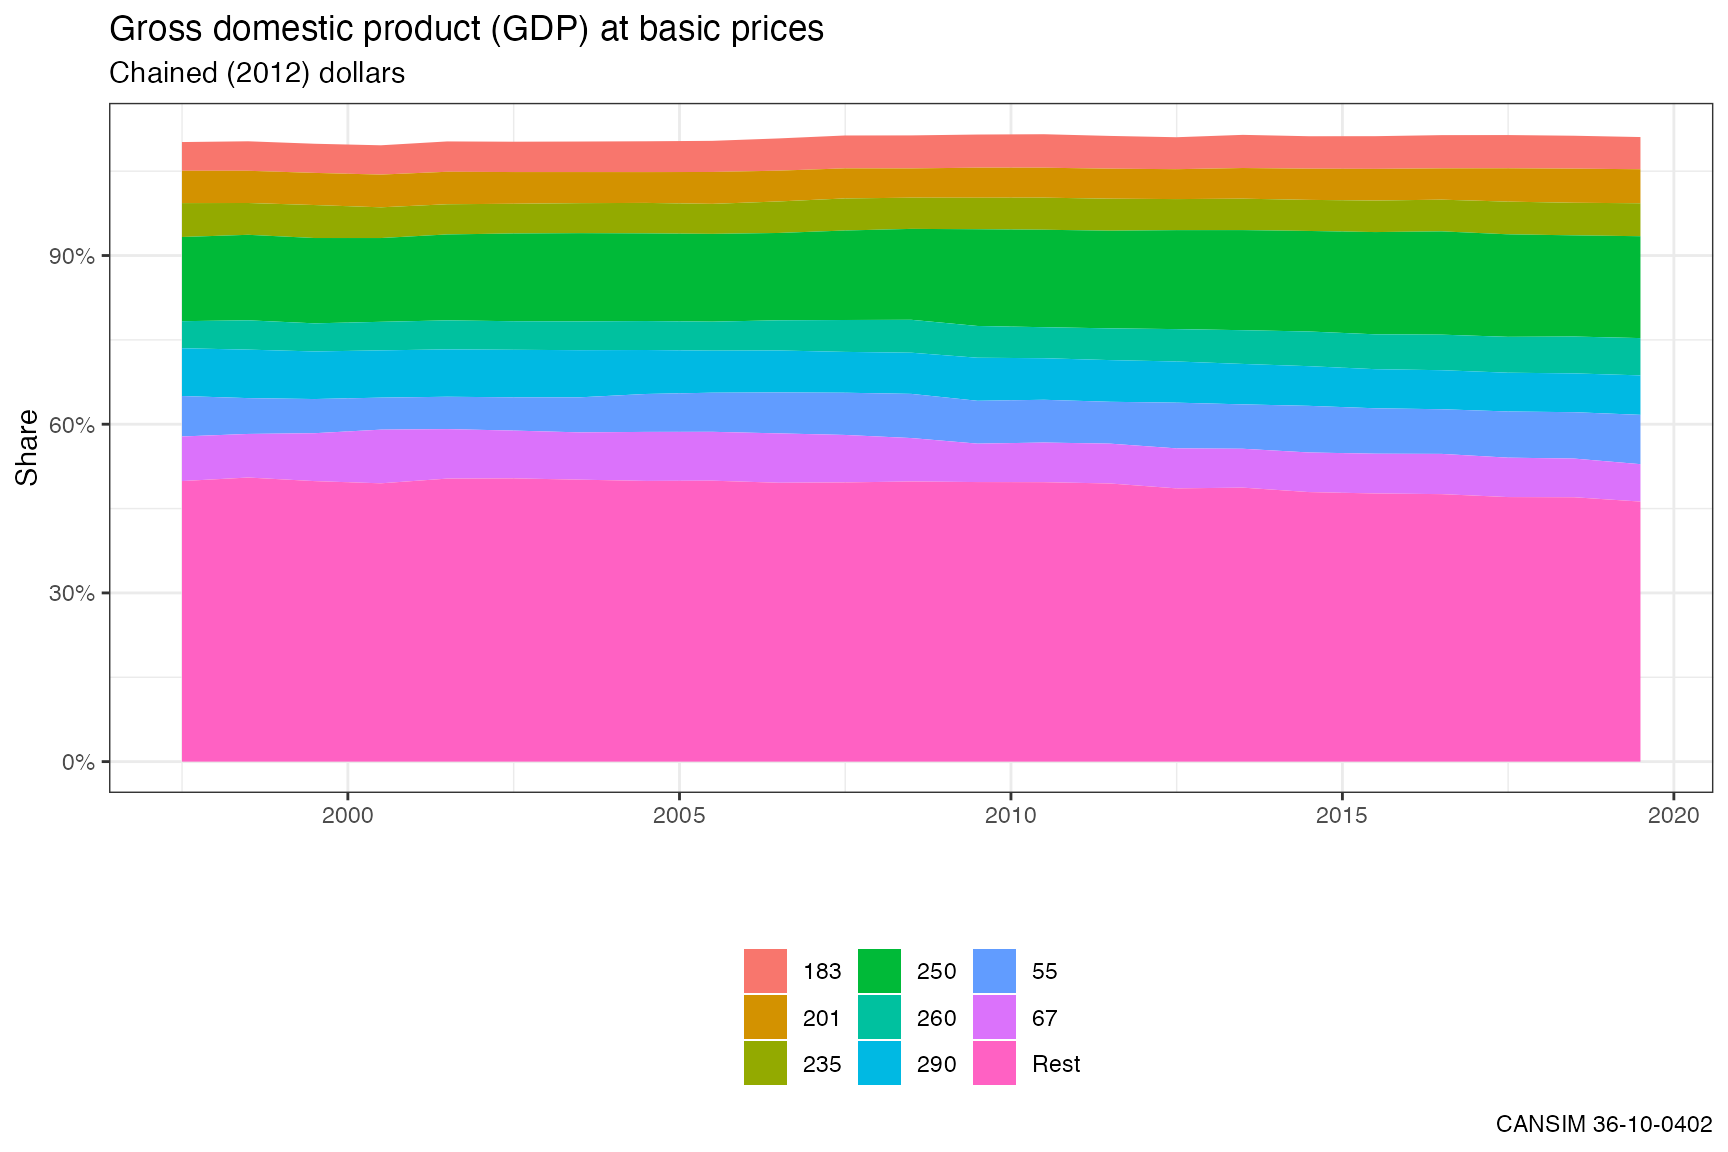
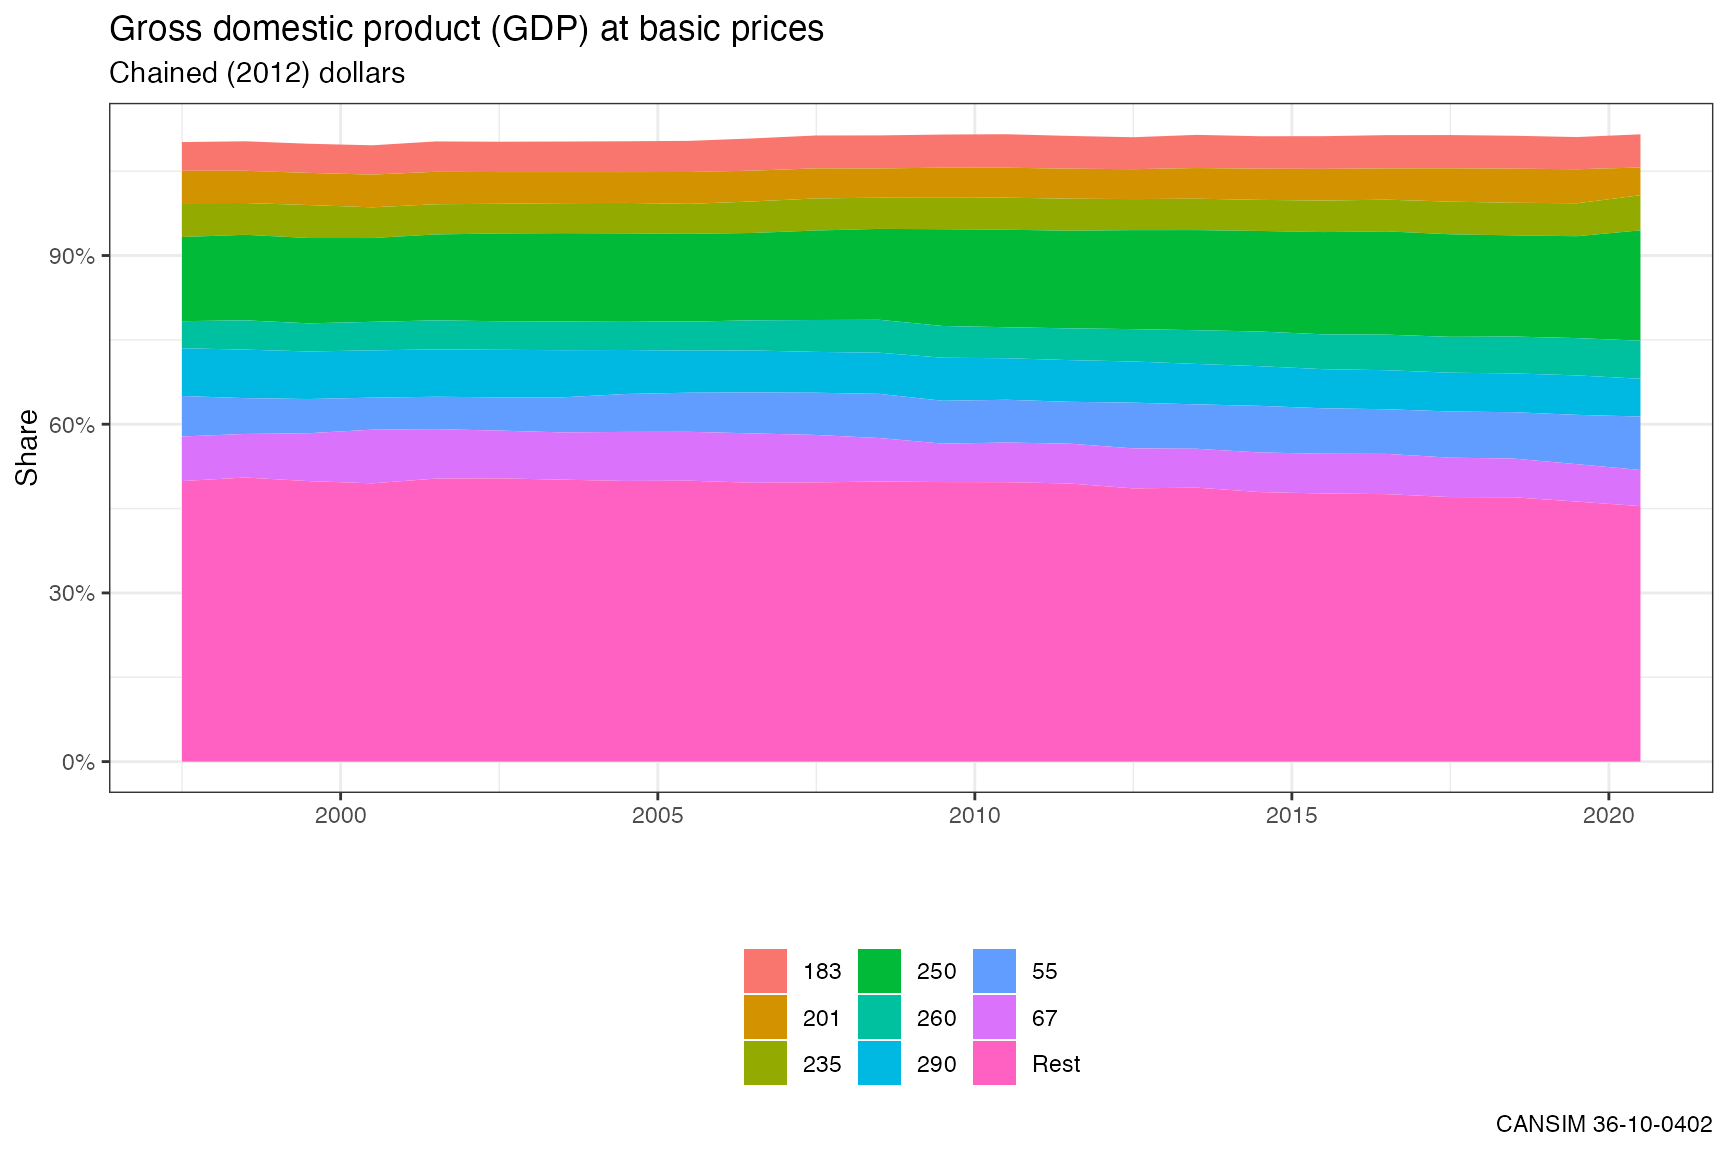
fall back to system unzip on unix-like systems.

diff --git a/docs/reference/list_cansim_cubes.html b/docs/reference/list_cansim_cubes.html
@@ -203,7 +203,7 @@ start and end dates, achieve status, subject and survey codes, frequency codes a
     <h2 class="hasAnchor" id="examples"><a class="anchor" href="#examples"></a>Examples</h2>
     <pre class="examples"><div class='input'><span class='co'># \donttest{</span>
 <span class='fu'>list_cansim_cubes</span><span class='op'>(</span><span class='op'>)</span>
-</div><div class='output co'>#&gt; <span class='message'>Retrieving cube information from StatCan servers...</span></div><div class='output co'>#&gt; <span style='color: #949494;'># A tibble: 5,765 x 19</span><span>
+</div><div class='output co'>#&gt; <span class='message'>Retrieving cube information from StatCan servers...</span></div><div class='output co'>#&gt; <span style='color: #949494;'># A tibble: 5,772 x 19</span><span>
 #&gt;    cansim_table_num… cubeTitleEn   cubeTitleFr  productId cansimId cubeStartDate
 #&gt;    </span><span style='color: #949494;font-style: italic;'>&lt;chr&gt;</span><span>             </span><span style='color: #949494;font-style: italic;'>&lt;chr&gt;</span><span>         </span><span style='color: #949494;font-style: italic;'>&lt;chr&gt;</span><span>        </span><span style='color: #949494;font-style: italic;'>&lt;chr&gt;</span><span>     </span><span style='color: #949494;font-style: italic;'>&lt;chr&gt;</span><span>    </span><span style='color: #949494;font-style: italic;'>&lt;date&gt;</span><span>       
 #&gt; </span><span style='color: #BCBCBC;'> 1</span><span> 10-10-0001        Federal publ… Emploi du s… 10100001  183-0021 1999-01-01   
@@ -216,7 +216,7 @@ start and end dates, achieve status, subject and survey codes, frequency codes a
 #&gt; </span><span style='color: #BCBCBC;'> 8</span><span> 10-10-0008        Foreign exch… Taux de cha… 10100008  176-0067 1950-10-02   
 #&gt; </span><span style='color: #BCBCBC;'> 9</span><span> 10-10-0009        Foreign exch… Taux de cha… 10100009  176-0064 1950-10-01   
 #&gt; </span><span style='color: #BCBCBC;'>10</span><span> 10-10-0010        Sales of alc… Ventes de b… 10100010  183-0023 2004-01-01   
-#&gt; </span><span style='color: #949494;'># … with 5,755 more rows, and 13 more variables: cubeEndDate &lt;date&gt;,</span><span>
+#&gt; </span><span style='color: #949494;'># … with 5,762 more rows, and 13 more variables: cubeEndDate &lt;date&gt;,</span><span>
 #&gt; </span><span style='color: #949494;'>#   releaseTime &lt;chr&gt;, archived &lt;lgl&gt;, subjectCode &lt;chr&gt;, surveyCode &lt;chr&gt;,</span><span>
 #&gt; </span><span style='color: #949494;'>#   frequencyCode &lt;chr&gt;, corrections &lt;chr&gt;, dimensionNameEn &lt;chr&gt;,</span><span>
 #&gt; </span><span style='color: #949494;'>#   dimensionNameFr &lt;chr&gt;, surveyEn &lt;chr&gt;, surveyFr &lt;chr&gt;, subjectEn &lt;chr&gt;,</span><span>

diff --git a/docs/articles/working_with_hierarchies.html b/docs/articles/working_with_hierarchies.html
@@ -127,7 +127,7 @@
       <h1 data-toc-skip>Working with Statistics Canada data table object hierarchies</h1>
                         <h4 class="author"></h4>
             
-            <h4 class="date">2021-04-28</h4>
+            <h4 class="date">2021-05-03</h4>
       
       <small class="dont-index">Source: <a href="https://github.com/mountainMath/cansim/blob/master/vignettes/working_with_hierarchies.Rmd"><code>vignettes/working_with_hierarchies.Rmd</code></a></small>
       <div class="hidden name"><code>working_with_hierarchies.Rmd</code></div>
@@ -154,7 +154,7 @@
 <span class="co">#&gt; Folding in metadata</span>
 <span class="co">#&gt; Gross domestic product (GDP) at basic prices, by industry, provinces and territories</span>
 <span class="co">#&gt; CANSIM Table 36-10-0402</span>
-<span class="co">#&gt; Start Reference Period: 1997-01-01, End Reference Period: 2019-01-01, Frequency: Annual</span>
+<span class="co">#&gt; Start Reference Period: 1997-01-01, End Reference Period: 2020-01-01, Frequency: Annual</span>
 <span class="co">#&gt; </span>
 <span class="co">#&gt; Column Geography (13)</span>
 <span class="co">#&gt; Newfoundland and Labrador, Prince Edward Island, Nova Scotia, New Brunswick, Quebec, Ontario, Manitoba, Saskatchewan, Alberta, British Columbia, ...</span>

diff --git a/docs/articles/retrieving_cansim_vectors.html b/docs/articles/retrieving_cansim_vectors.html
@@ -127,7 +127,7 @@
       <h1 data-toc-skip>Retrieving individual Statistics Canada vectors</h1>
                         <h4 class="author"></h4>
             
-            <h4 class="date">2021-04-28</h4>
+            <h4 class="date">2021-05-03</h4>
       
       <small class="dont-index">Source: <a href="https://github.com/mountainMath/cansim/blob/master/vignettes/retrieving_cansim_vectors.Rmd"><code>vignettes/retrieving_cansim_vectors.Rmd</code></a></small>
       <div class="hidden name"><code>retrieving_cansim_vectors.Rmd</code></div>

diff --git a/docs/articles/listing_cansim_tables.html b/docs/articles/listing_cansim_tables.html
@@ -127,7 +127,7 @@
       <h1 data-toc-skip>Listing Statistics Canada data tables</h1>
                         <h4 class="author"></h4>
             
-            <h4 class="date">2021-04-28</h4>
+            <h4 class="date">2021-05-03</h4>
       
       <small class="dont-index">Source: <a href="https://github.com/mountainMath/cansim/blob/master/vignettes/listing_cansim_tables.Rmd"><code>vignettes/listing_cansim_tables.Rmd</code></a></small>
       <div class="hidden name"><code>listing_cansim_tables.Rmd</code></div>

diff --git a/docs/articles/cansim.html b/docs/articles/cansim.html
@@ -126,7 +126,7 @@
       <h1 data-toc-skip>Getting started with the cansim package</h1>
                         <h4 class="author"></h4>
             
-            <h4 class="date">2021-04-28</h4>
+            <h4 class="date">2021-05-03</h4>
       
       <small class="dont-index">Source: <a href="https://github.com/mountainMath/cansim/blob/master/vignettes/cansim.Rmd"><code>vignettes/cansim.Rmd</code></a></small>
       <div class="hidden name"><code>cansim.Rmd</code></div>

diff --git a/docs/news/index.html b/docs/news/index.html
@@ -190,6 +190,7 @@
 <ul>
 <li>Adapt to changes in dplyr, tidyr, and tibble</li>
 <li>fix a bug that would not properly add hierarchies when category names are repeated</li>
+<li>Use system unzip if <code><a href="https://rdrr.io/r/base/options.html">getOption("unzip")</a></code> is set to enable unzip for files larger than 4GB on unix-like systems</li>
 </ul>
 </div>
 </div>

diff --git a/cran-comments.md b/cran-comments.md
@@ -46,4 +46,5 @@ There were no ERRORs or WARNINGs or NOTEs.
 * Fold part of `normalize_cansim_values` into the default table and vector output, in particular always add a scaled variable column called `val_norm` and an imputed `Date` column and covert categories to factors by default.
 * Adapt to changes in dplyr, tidyr, and tibble
 * fix a bug that would not properly add hierarchies when category names are repeated
+* Use system unzip if `getOption("unzip")` is set to enable unzip for files larger than 4GB on unix-like systems
 

diff --git a/NEWS.md b/NEWS.md
@@ -5,6 +5,7 @@
 ## Minor changes
 * Adapt to changes in dplyr, tidyr, and tibble
 * fix a bug that would not properly add hierarchies when category names are repeated
+* Use system unzip if `getOption("unzip")` is set to enable unzip for files larger than 4GB on unix-like systems
 
 # cansim 0.3.5 
 
